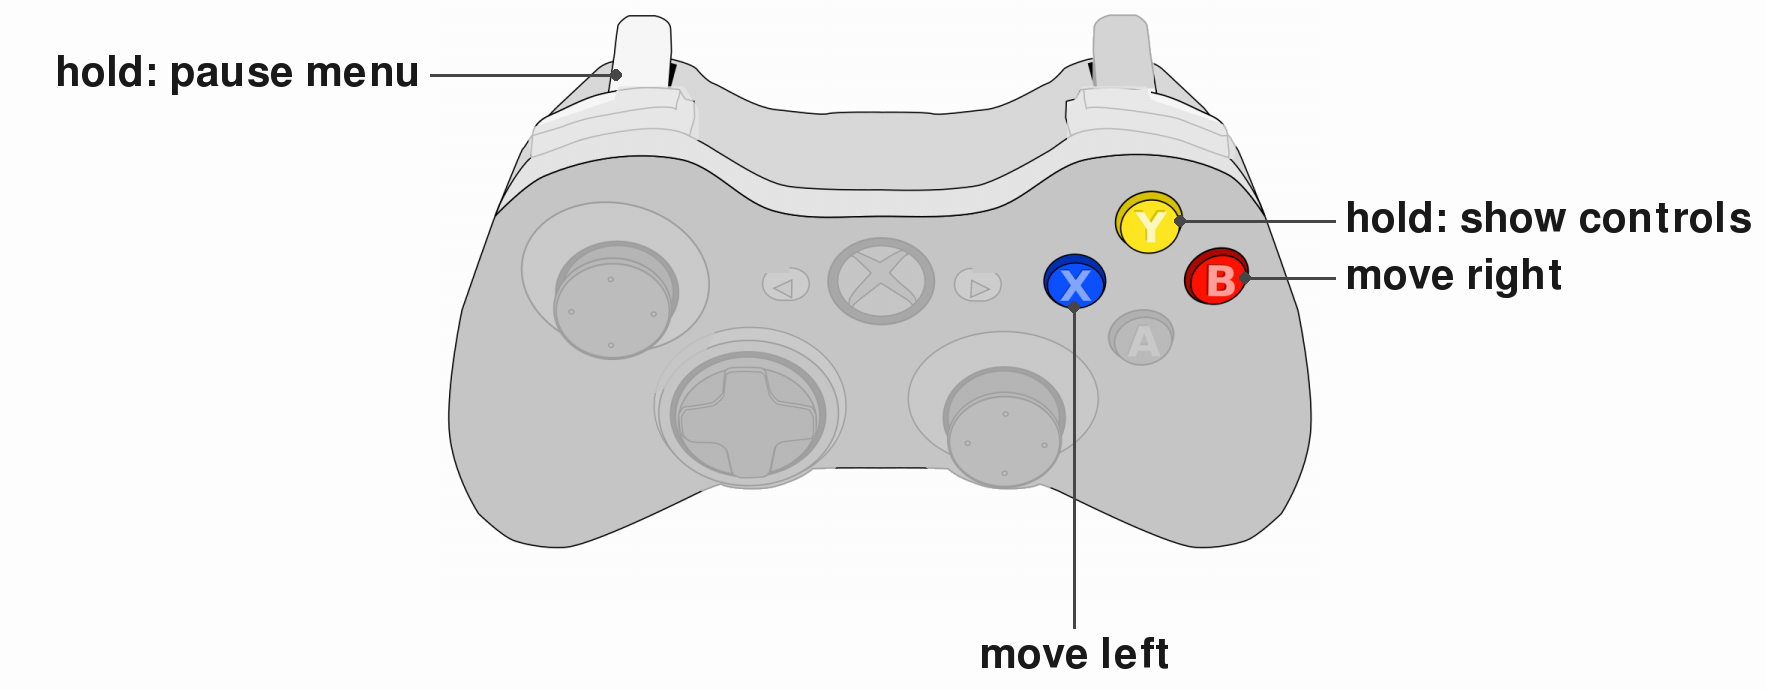
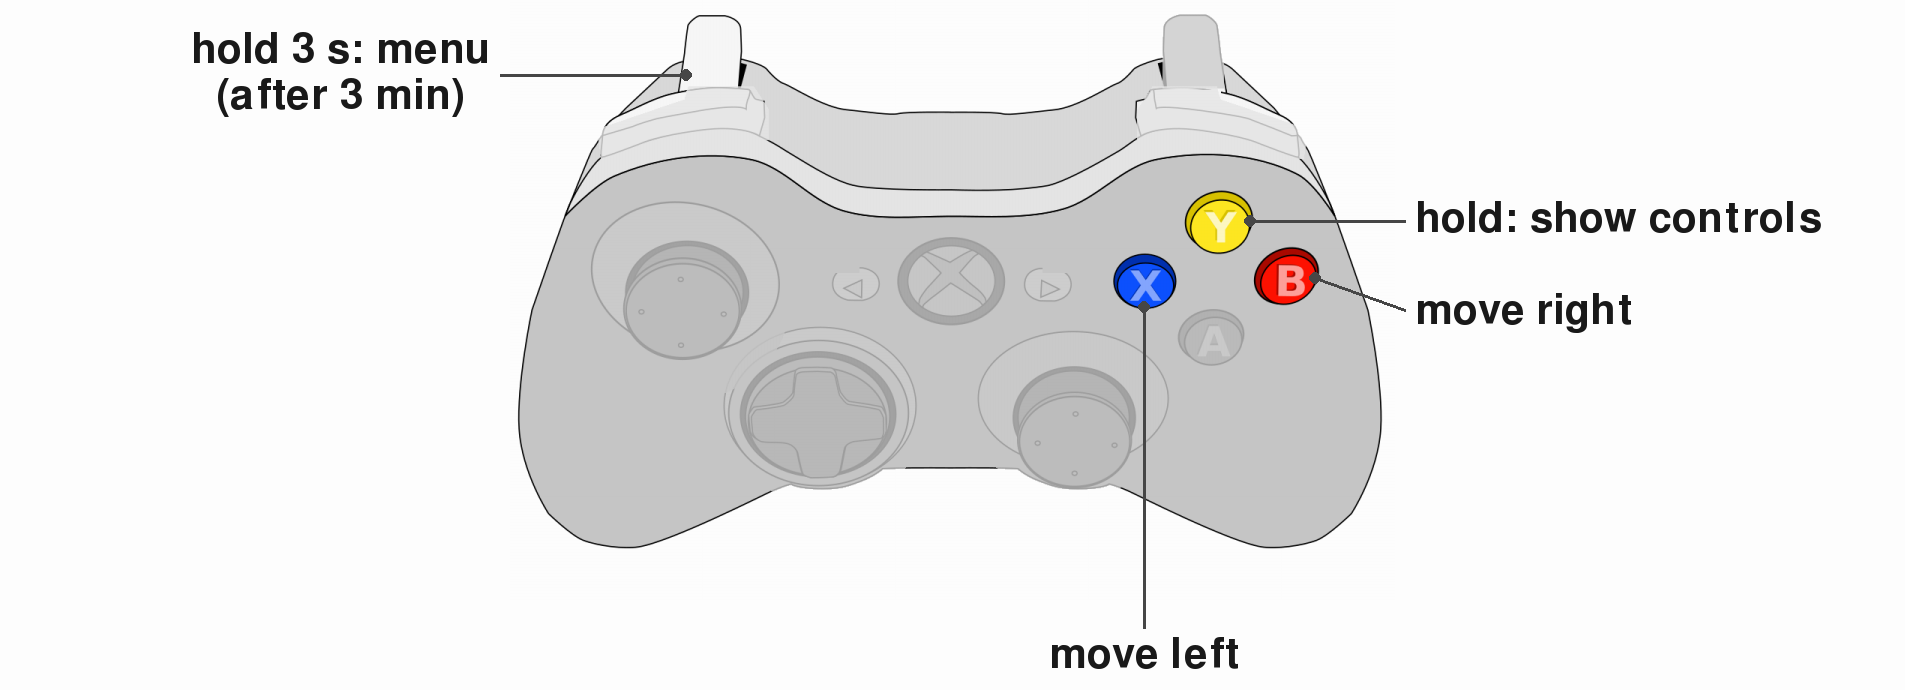
The controls images say how long to hold, and when the menu opens
The menu's and the hint's labels give the hold time when it is above zero
("hold 3 s: menu", "hold 3 s: show controls"), and the menu's says when it
opens ("(after 3 min)") centered under it; "pause menu" is "menu". The
labels on each side of the controller keep a blank line between controls,
so each reads as one, and the label columns are wider to fit the longer text.

diff --git a/tools/controls_images.py b/tools/controls_images.py
@@ -3,8 +3,9 @@
 The labels file names the underlay (a drawing of an Xbox 360 controller, whose
 controls sit where :data:`CONTROLS` says) and maps each image, by its path from
 the file, to its labels: one control name (as a curriculum writes it) to the
-lines of text beside it. The controls a game leaves unused are greyed out, as are
-the drawing's controls no controller rig has, and the names printed on it are painted over.
+lines of text beside it, a list among them being lines centered on each other. The
+controls a game leaves unused are greyed out, as are the drawing's controls no controller
+rig has, and the names printed on it are painted over.
 A key starting with ``##`` is a comment.
 
     uv run python tools/controls_images.py configs/images/controls/labels.json
@@ -29,7 +30,10 @@ PAPER, TEXT, LEADER = (255, 255, 255), (25, 25, 25), (70, 70, 70)
 #: the part of the underlay that is the controller, and its scale in the image
 CROP, SCALE = pygame.Rect(50, 50, 1180, 800), 0.75
 #: room for the labels on each side of the controller, and under it
-MARGIN, BELOW = 440, 90
+MARGIN, BELOW = 510, 90
+#: the space between two controls' labels, more than between a label's lines so each
+#: label reads as one; and the least space between a label and the image's edge
+LABEL_GAP, EDGE = 46, 10
 
 
 #: what an unused control fades to: its pixels keep this share of their contrast with
@@ -137,36 +141,97 @@ def _paint_over(pixels: np.ndarray, rect: pygame.Rect) -> None:
     region[:] = np.median(edge, axis=0).astype(np.uint8)
 
 
-def draw_label(canvas: pygame.Surface, font: pygame.font.Font, control: Control,
-               lines: list[str]) -> None:
-    """``lines`` beside ``control``, with a leader line from the control to them."""
-    anchor = _on_image(control.anchor)
-    surfaces = [font.render(line, True, TEXT) for line in lines]
-    height = sum(s.get_height() for s in surfaces)
+def _render_label(font: pygame.font.Font, lines: list[str | list[str]],
+                  side: str) -> pygame.Surface:
+    """``lines`` one under another on a transparent surface, flush toward the controller from
+    ``side``; a list among them is a group of lines centered on each other, set as one line is."""
+    groups = []
+    for line in lines:
+        texts = [line] if isinstance(line, str) else line
+        rows = [font.render(text, True, TEXT) for text in texts]
+        group = pygame.Surface((max(r.get_width() for r in rows),
+                                sum(r.get_height() for r in rows)), pygame.SRCALPHA)
+        top = 0
+        for row in rows:
+            group.blit(row, row.get_rect(midtop=(group.get_width() // 2, top)))
+            top += row.get_height()
+        groups.append(group)
+    label = pygame.Surface((max(g.get_width() for g in groups),
+                            sum(g.get_height() for g in groups)), pygame.SRCALPHA)
+    top = 0
+    for group in groups:
+        x = {"left": label.get_width() - group.get_width(), "right": 0,
+             "below": (label.get_width() - group.get_width()) // 2}[side]
+        label.blit(group, (x, top))
+        top += group.get_height()
+    return label
+
+
+def _label_tops(canvas_height: int, wanted_tops: list[int], heights: list[int]) -> list[int]:
+    """The tops of one side's labels, given top to bottom: each as near the top it wants as
+    keeps :data:`LABEL_GAP` between labels and all of them on the canvas."""
+    tops = []
+    for wanted, height in zip(wanted_tops, heights):
+        floor = tops[-1] + heights[len(tops) - 1] + LABEL_GAP if tops else EDGE
+        tops.append(max(wanted, floor))
+    ceiling = canvas_height - EDGE
+    for i in reversed(range(len(tops))):
+        tops[i] = min(tops[i], ceiling - heights[i])
+        ceiling = tops[i] - LABEL_GAP
+    return tops
+
+
+def draw_labels(canvas: pygame.Surface, font: pygame.font.Font,
+                labels: dict[str, list[str | list[str]]]) -> None:
+    """Each control's lines beside it, with a leader line from the control to them."""
+    by_side: dict[str, list[tuple[Control, pygame.Surface]]] = {}
+    for name, lines in labels.items():
+        control = CONTROLS[name]
+        label = _render_label(font, lines, control.side)
+        by_side.setdefault(control.side, []).append((control, label))
+    for side, placed in by_side.items():
+        placed.sort(key=lambda control_and_label: control_and_label[0].anchor[1])
+        anchors = [_on_image(control.anchor) for control, _ in placed]
+        heights = [label.get_height() for _, label in placed]
+        tops = [_wanted_top(control, anchor, label, font, canvas.get_height())
+                for (control, label), anchor in zip(placed, anchors)]
+        tops = _label_tops(canvas.get_height(), tops, heights)
+        for (control, label), anchor, top in zip(placed, anchors, tops):
+            _draw_label(canvas, side, anchor, label, top)
+
+
+def _wanted_top(control: Control, anchor: tuple[int, int], label: pygame.Surface,
+                font: pygame.font.Font, canvas_height: int) -> int:
+    """Where ``label``'s top goes beside ``control`` when no other label is in the way: level
+    with it, or, under the controller, at the image's bottom edge."""
     if control.side == "below":
-        top = canvas.get_height() - height - 10
-        end = (anchor[0], top - 6)
+        return canvas_height - EDGE - label.get_height()
+    if control.grows_up:
+        return anchor[1] - label.get_height() + font.get_linesize() // 2
+    return anchor[1] - label.get_height() // 2
+
+
+def _draw_label(canvas: pygame.Surface, side: str, anchor: tuple[int, int],
+                label: pygame.Surface, top: int) -> None:
+    """``label`` at ``top`` on ``side``, and the leader line from ``anchor`` to it."""
+    rect = label.get_rect()
+    if side == "below":
+        rect.midtop = (anchor[0], top)
+        end = (anchor[0], rect.top - 6)
     else:
-        top = anchor[1] - height // 2
-        if control.grows_up:
-            top = anchor[1] - height + surfaces[-1].get_height() // 2
-        x = MARGIN - 20 if control.side == "left" else canvas.get_width() - MARGIN + 20
-        end = (x + 10, anchor[1]) if control.side == "left" else (x - 10, anchor[1])
-    pygame.draw.line(canvas, LEADER, anchor, end, 3)
-    pygame.draw.circle(canvas, LEADER, anchor, 6)
-    for surface in surfaces:
-        rect = surface.get_rect()
-        if control.side == "below":
-            rect.midtop = (anchor[0], top)
-        elif control.side == "left":
+        if side == "left":
             rect.topright = (MARGIN - 20, top)
         else:
             rect.topleft = (canvas.get_width() - MARGIN + 20, top)
-        canvas.blit(surface, rect)
-        top += surface.get_height()
+        # straight across when the label is level with the control, else to its nearest line
+        end = (rect.right + 10 if side == "left" else rect.left - 10,
+               min(max(anchor[1], rect.top + 20), rect.bottom - 20))
+    pygame.draw.line(canvas, LEADER, anchor, end, 3)
+    pygame.draw.circle(canvas, LEADER, anchor, 6)
+    canvas.blit(label, rect)
 
 
-def write_controls_image(underlay: pygame.Surface, labels: dict[str, list[str]],
+def write_controls_image(underlay: pygame.Surface, labels: dict[str, list[str | list[str]]],
                          path: Path) -> None:
     """Draw ``underlay`` with ``labels`` (control name: lines) and save it as a PNG at ``path``.
 
@@ -191,8 +256,7 @@ def write_controls_image(underlay: pygame.Surface, labels: dict[str, list[str]],
     canvas.fill(controller.get_at((0, 0)))     # smoothscale leaves the white a shade darker
     canvas.blit(controller, (MARGIN, 0))
     font = pygame.font.Font(pygame.font.get_default_font(), 42)
-    for name, lines in labels.items():
-        draw_label(canvas, font, CONTROLS[name], lines)
+    draw_labels(canvas, font, labels)
     path.parent.mkdir(parents=True, exist_ok=True)
     pygame.image.save(canvas, str(path))
 

diff --git a/.claude/skills/controls-images/SKILL.md b/.claude/skills/controls-images/SKILL.md
@@ -5,11 +5,11 @@ description: Make, edit or check a game's controls image (a gamepad drawing with
 
 # Controls images
 
-A screen's text shows an image where a line is only `![alt](path)`, the path from `configs/` (`humans/outputs/display.py`, `IMAGE_LINE`); a missing or unreadable image stops the run at load. The controls images are one PNG per controller curriculum's shared phase, `configs/images/controls/<backend>/<common file's name>.png`, each shown in that phase's instructions in place of Controls lines: the image is the only list of the controls the participant reads. They are drawn, never edited by hand: `configs/images/controls/labels.json` names the underlay (the Xbox 360 drawing in `configs/images/controllers/`) and, per image, each control (as a curriculum writes it, the stick as `LEFT_STICK`) with the lines beside it; `tools/controls_images.py` draws them all. A control with no label is greyed out, as are the drawing's controls no controller rig has (bumpers, D-pad, right stick, Back, Start, Guide), and the names printed on the drawing are painted over; the areas are constants at the top of the tool, in the underlay's pixels.
+A screen's text shows an image where a line is only `![alt](path)`, the path from `configs/` (`humans/outputs/display.py`, `IMAGE_LINE`); a missing or unreadable image stops the run at load. The controls images are one PNG per controller curriculum's shared phase, `configs/images/controls/<backend>/<common file's name>.png`, each shown in that phase's instructions in place of Controls lines: the image is the only list of the controls the participant reads. They are drawn, never edited by hand: `configs/images/controls/labels.json` names the underlay (the Xbox 360 drawing in `configs/images/controllers/`) and, per image, each control (as a curriculum writes it, the stick as `LEFT_STICK`) with the lines beside it; `tools/controls_images.py` draws them all, keeping a blank line between two controls' labels so each reads as one. A control with no label is greyed out, as are the drawing's controls no controller rig has (bumpers, D-pad, right stick, Back, Start, Guide), and the names printed on the drawing are painted over; the areas are constants at the top of the tool, in the underlay's pixels.
 
 ## Make or change one
 
-1. Edit its entry in `labels.json`: one key per control the phase binds in `controls`, plus the menu's `control` (labelled "hold: pause menu") and the hint's ("hold: show controls"); the text is the action the adapter's docstring gives that index, in a few words a participant reads at a glance.
+1. Edit its entry in `labels.json`: one key per control the phase binds in `controls`, plus the menu's `control` and the hint's, each labelled with how long to hold it when its `hold` is above zero ("hold 3 s: menu", "hold: show controls") and, when its `after` is above zero, how long into the block it opens, centered under that line by making the two a list of their own (`["hold 3 s: menu", "(after 3 min)"]`); the text is the action the adapter's docstring gives that index, in a few words a participant reads at a glance.
 2. Redraw: `uv run python tools/controls_images.py configs/images/controls/labels.json`. A control the drawing does not have stops it, with the list of the ones it has.
 3. For a new image, put the line in the instructions' `text` in the `common/` file where the Controls lines were, removing them, with an empty line before the "Press X to start" line: `"![controls](images/controls/<backend>/<name>.png)"`. A curriculum that overrides the instructions' `text` does the same. A phase with a `hint` shows the same line at the top of the hint's `text`.
 4. Look at the image, and at the screen it is on, at the rigs' 1024x768: the text and the image must fit, the heading and the "Press X to start" line included. To see one game's screen:
@@ -29,7 +29,7 @@ A screen's text shows an image where a line is only `![alt](path)`, the path fro
 
 Whenever a branch touches a curriculum, or a `common/` file one includes, whose instructions show a controls image (`rg -l images/controls configs/curricula`), and above all when it changes `controls` or `menu`:
 
-- **Labels match the bindings.** For each such phase, the controls in its image's entry are exactly the ones it binds (any `CONTROLLER_AXIS_LEFTX_*` or `CONTROLLER_AXIS_LEFTY_*` counts as `LEFT_STICK`) plus the menu's and the hint's `control`, and each label says the action that control's index is bound to: a remapped button with its old label, a binding with no label, or a label with no binding is a mismatch. Instructions that show the image have no Controls lines.
+- **Labels match the bindings.** For each such phase, the controls in its image's entry are exactly the ones it binds (any `CONTROLLER_AXIS_LEFTX_*` or `CONTROLLER_AXIS_LEFTY_*` counts as `LEFT_STICK`) plus the menu's and the hint's `control`, and each label says the action that control's index is bound to, and the menu's and the hint's labels say their `hold` and `after`: a remapped button with its old label, a binding with no label, a label with no binding, or a changed `hold` or `after` is a mismatch. Instructions that show the image have no Controls lines.
 - **Images match the labels.** Redraw, then `git status --short configs/images/controls`: a PNG that changed was stale; commit it. Nothing changed means the images are what `labels.json` says.
 - **Every image line has an entry** in `labels.json`, and every entry is shown by some curriculum; a hint's `text` shows the same image as its phase's instructions.
 
